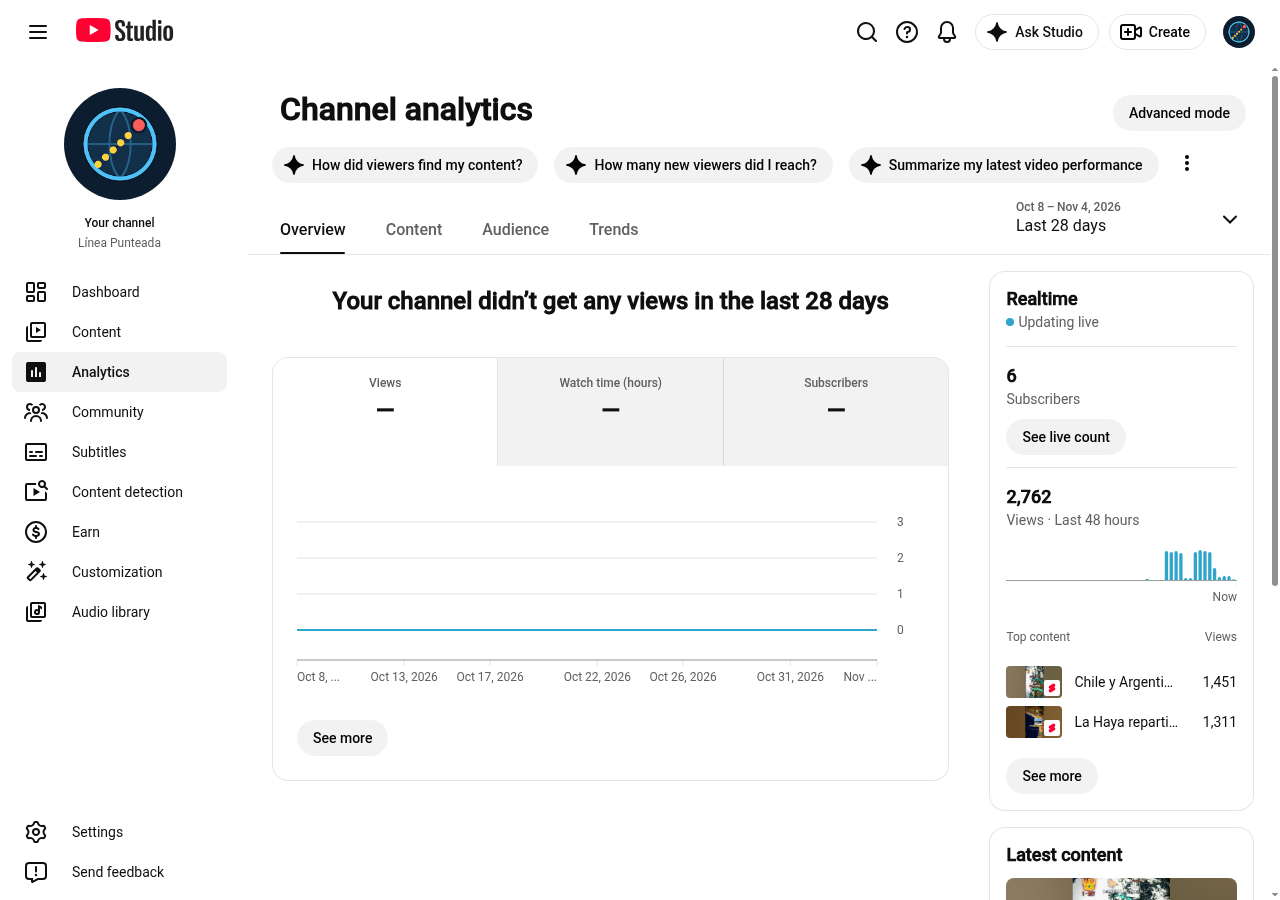
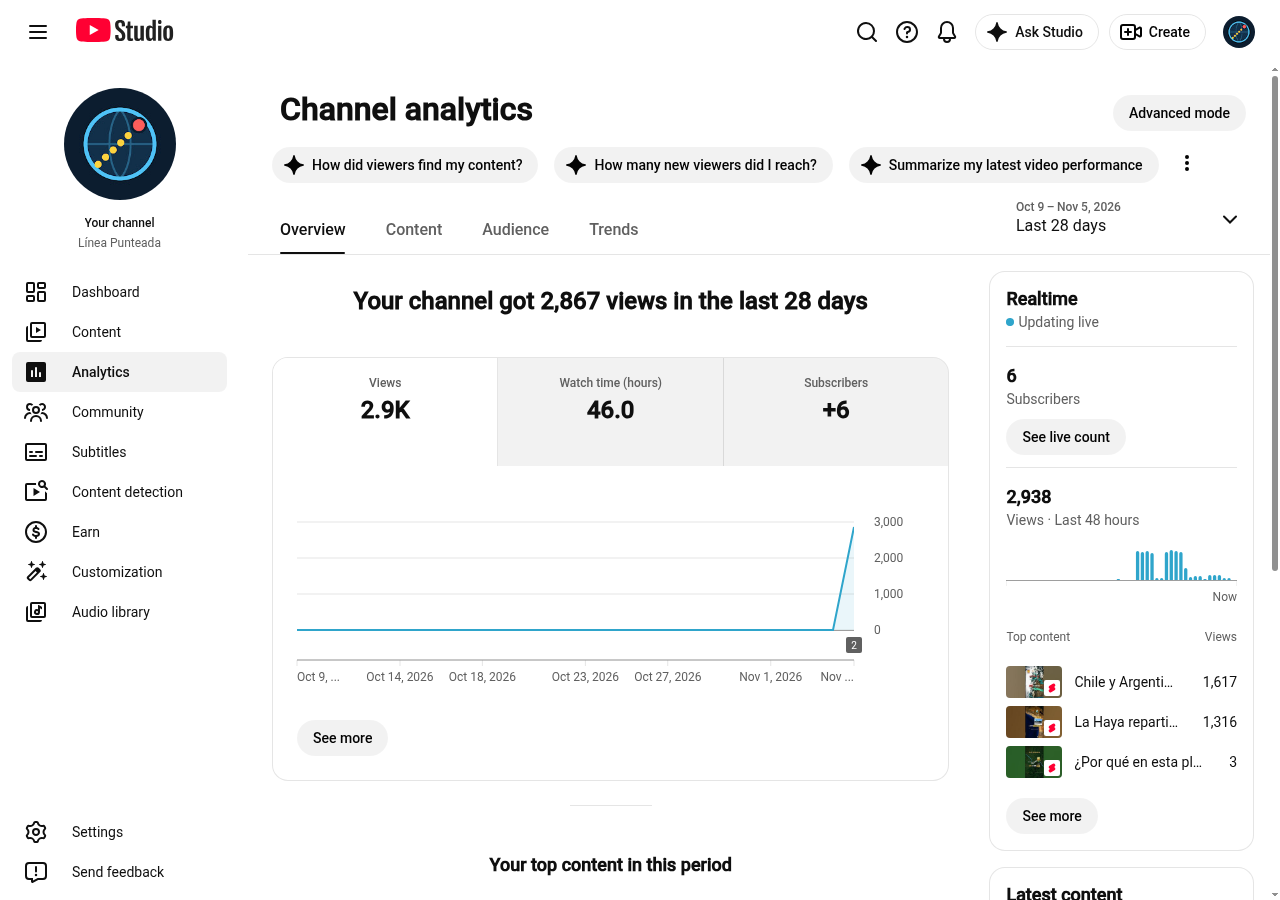
carátulas: pedido de prueba preparado (serie Bushby) + métricas 08:15

diff --git a/salida/caratulas/pedidos/PEDIDO-linea-punteada-bushby-serie.md b/salida/caratulas/pedidos/PEDIDO-linea-punteada-bushby-serie.md
@@ -1,0 +1,53 @@
+Tarea: imagen
+Salida: contenido/caratulas/externos/linea-punteada/2026-11-06-bushby-serie.png
+Prompt: prompts/imagen-caratula.md
+Canal: Línea Punteada (externo, @lineapunteada)
+Para: largo 16:9 "Salió caminando de Punta Arenas y tardó 28 años en llegar a su casa" (publicación 2026-11-15); primer pedido externo, valida el mecanismo
+
+# Carátula del largo sobre Karl Bushby (serie "Del estrecho al canal")
+
+## El prompt (va tal cual al generador, no se reinterpreta)
+
+Crea una carátula de YouTube para un video largo de geografía narrada de la serie "Del estrecho al canal", del canal en español "Línea Punteada" (mapas, fronteras y rutas contadas con calma).
+
+DATOS QUE YO ENTREGO
+TITULAR (exacto, dos líneas, sin cambiar palabras ni tildes):
+28 años caminando
+hasta su casa
+LÍNEA SECUNDARIA (exacta):
+De Punta Arenas a Inglaterra, a pie
+ELEMENTO VISUAL:
+Un mapa del mundo en proyección ortográfica visto desde el Atlántico, con una línea punteada blanca que sale de la punta sur de Sudamérica, sube por el continente americano, cruza el estrecho de Bering, baja por Asia y Europa y termina en el norte de Inglaterra. Sobre el mapa, de espaldas y pequeño, un caminante solitario con mochila y carrito, visto desde atrás, sin rostro.
+
+TU TAREA
+Diseña la carátula con estas reglas fijas. No son sugerencias: son la identidad del canal y se repiten en cada video.
+
+FORMATO
+16:9 horizontal, mínimo 1280x720, en PNG. El texto VA DENTRO de la imagen, tal como se entrega: la carátula se publica sin retoques.
+
+IDENTIDAD DEL CANAL
+Arriba a la izquierda, una marca pequeña que dice LÍNEA PUNTEADA en mayúsculas espaciadas, tipografía grotesca pesada, con una línea punteada corta debajo.
+Paleta: fondo azul noche casi negro; tierra en gris cálido claro; mares en azul profundo; UN solo acento naranja quemado (#d95926) para la línea de la ruta en su tramo final y para una palabra del titular.
+El TITULAR va en tipografía grotesca muy pesada, cuerpo grande, en dos líneas exactamente como lo entrego.
+La LÍNEA SECUNDARIA va debajo, pequeña, exactamente como la entrego.
+
+COMPOSICIÓN
+El texto ocupa el 45% izquierdo. El mapa con la ruta ocupa el resto y se funde con el fondo oscuro, sin marco.
+La línea punteada debe leerse de un vistazo como un recorrido larguísimo: es el protagonista visual junto al titular.
+Deja la esquina inferior derecha libre de información (YouTube pone ahí la duración).
+Nada más compite con el titular y la ruta.
+
+PROHIBIDO
+Rostros (ni reales ni inventados). Banderas como protagonista. Logos, nombres de medios, marcas de agua.
+Cualquier texto que no sea la marca del canal, el titular y la línea secundaria.
+Mayúsculas gritadas en el titular, rojo o amarillo de tabloide, flechas, círculos, signos de exclamación, estética de collage.
+Nombres de lugares escritos sobre el mapa.
+
+ESTILO
+Pieza editorial de alto nivel: cartografía limpia, luz suave, grano fino, sensación de documental. Debe sentirse seria, atractiva y específica, no genérica.
+
+PRUEBA FINAL
+¿Se entiende en un segundo que es un viaje a pie enorme? ¿El titular se lee en un teléfono? ¿La esquina inferior derecha está limpia? ¿Hay un solo acento de color? Si algo falla, corrígelo antes de generar.
+
+RESULTADO ESPERADO
+Entrega TRES variantes de la carátula (-1, -2 y -3), 16:9, listas para YouTube, variando solo la composición del mapa y el tamaño del caminante; la identidad y los textos son los mismos en las tres.

diff --git a/salida/caratulas/pedidos/COMO-ENVIAR.md b/salida/caratulas/pedidos/COMO-ENVIAR.md
@@ -1,0 +1,13 @@
+# Cómo se envía un pedido de carátula a GPT (skill `caratulas-con-gpt`)
+
+Enviar = copiar el archivo PEDIDO-*.md a `contenido/urgente/` del repo sinostrozadev/entender-chile (main). Eso
+despierta la tarea de ChatGPT de Santiago y gasta una imagen del generador, así que el primer envío lo autoriza él.
+
+    F=salida/caratulas/pedidos/PEDIDO-linea-punteada-bushby-serie.md
+    gh api -X PUT repos/sinostrozadev/entender-chile/contents/contenido/urgente/$(basename $F) \
+      -f message="pedido imagen externo: linea-punteada bushby-serie" -f content="$(base64 -w0 $F)"
+
+Luego (1–5 min, hasta 30):
+
+    URL=https://raw.githubusercontent.com/sinostrozadev/entender-chile/main/contenido/caratulas/externos/linea-punteada/2026-11-06-bushby-serie.png
+    curl -sfL -o salida/caratulas/bushby-serie.png "$URL" && tail -c 12 salida/caratulas/bushby-serie.png | xxd | grep -q IEND && echo PNG_OK
